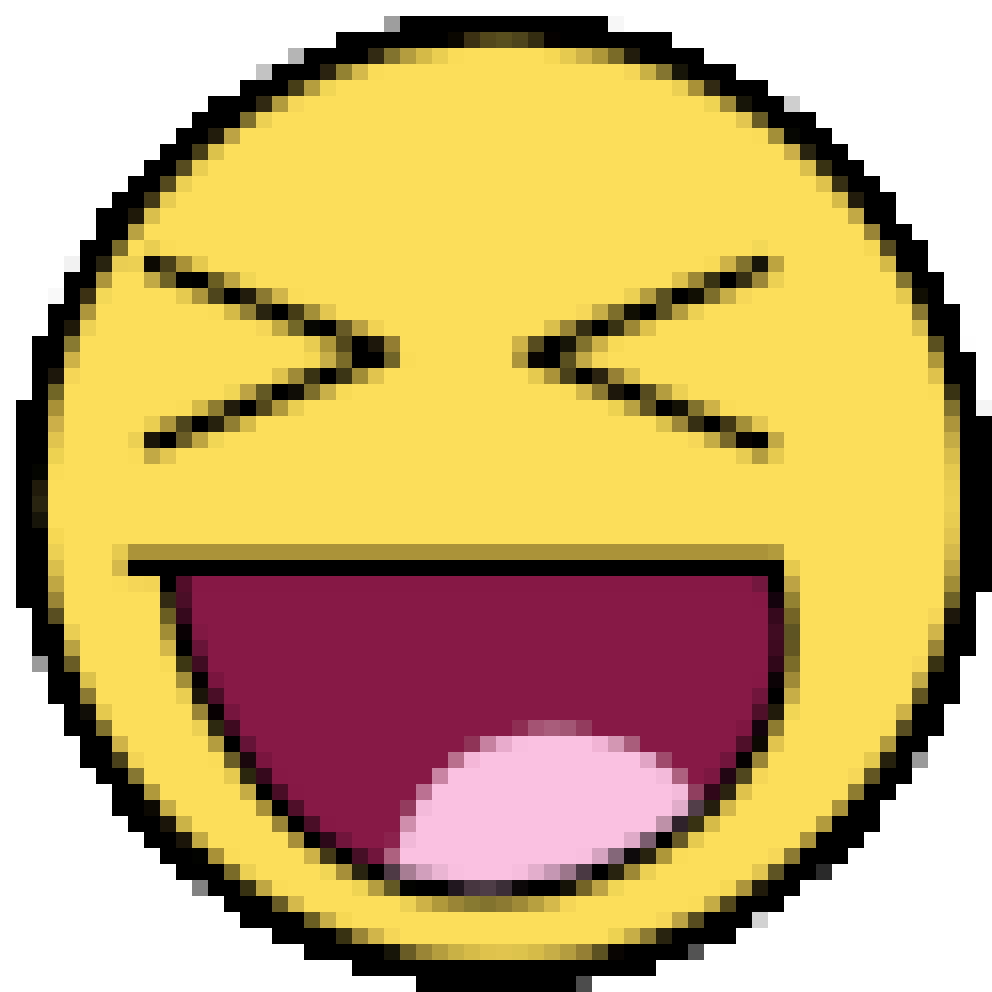
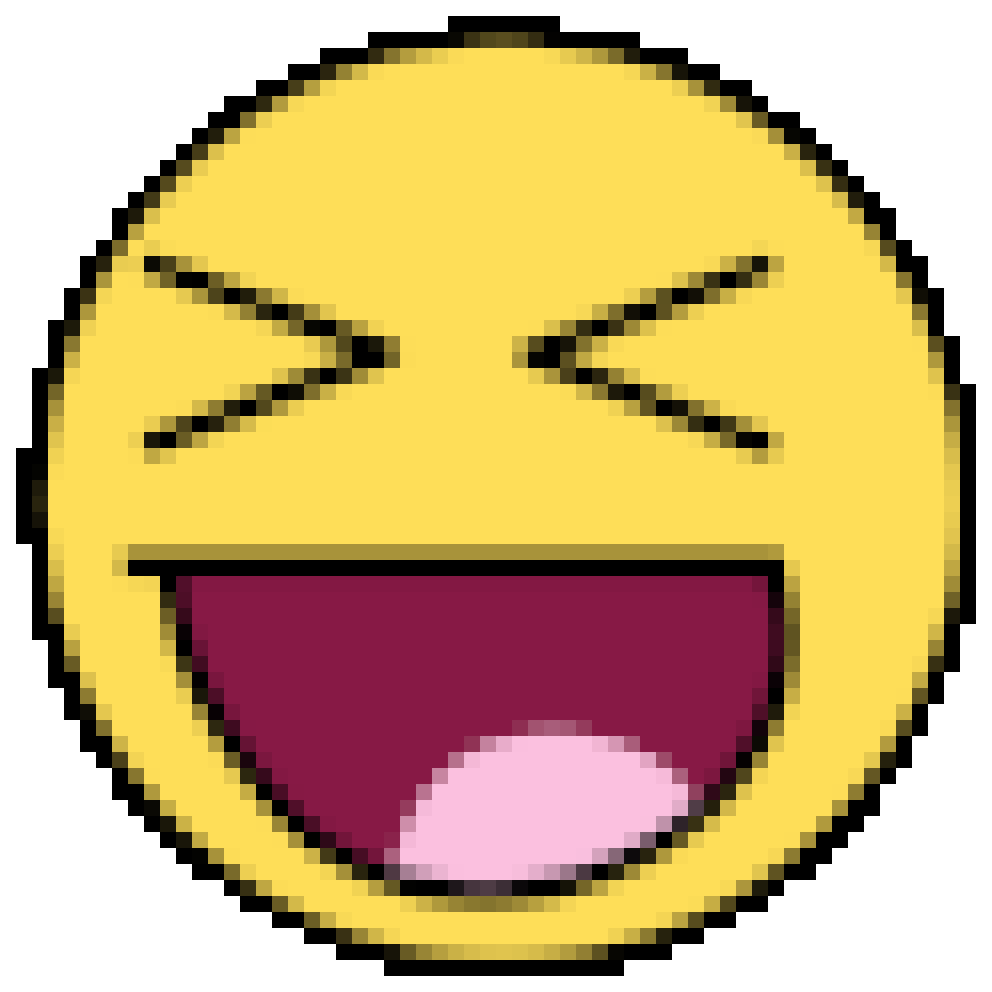
non-transparent pixels

diff --git a/PixelArt.py b/PixelArt.py
@@ -17,6 +17,9 @@ while True:
 def pixelate(img: Image, pixel_size: int) -> None:
     img = img.convert("RGBA")
     width, height = img.size
+
+    if pixel_size < 1 or pixel_size > width or pixel_size > height:
+        raise ValueError("Pixel size must be within native resolution")
     # Cut off rightmost or bottom strip if image is uneven to ensure complete pixels
     width -= width % pixel_size
     height -= height % pixel_size
@@ -48,24 +51,28 @@ def pixelate(img: Image, pixel_size: int) -> None:
                 red_avg = round(math.sqrt(red_sq / alpha_sum))
                 green_avg = round(math.sqrt(green_sq / alpha_sum))
                 blue_avg = round(math.sqrt(blue_sq / alpha_sum))
-                alpha_avg = round(alpha_sum / (pixel_size**2))
+                # Pixels are either there or not
+                if alpha_sum / (pixel_size**2) >= 128:
+                    alpha_avg = 255
+                else:
+                    alpha_avg = 0
                 new_px = (red_avg, green_avg, blue_avg, alpha_avg)
 
             for cx in range(x, x + pixel_size):
                 for cy in range(y, y + pixel_size):
                     pixels[cx, cy] = new_px
 
-            if len(file_name.split(".")) == 2:
-                file, ext = file_name.split(".")
-            else:
-                i = len(file_name) - 1
-                while file_name[i] != ".":
-                    i -= 1
-                file, ext = file_name[:i], file_name[i+1:]
-            
-            new_filename = f"{file}-pixelated.{ext}"
+    if len(file_name.split(".")) == 2:
+        file, ext = file_name.split(".")
+    else:
+        i = len(file_name) - 1
+        while file_name[i] != ".":
+            i -= 1
+        file, ext = file_name[:i], file_name[i+1:]
+    
+    new_filename = f"{file}-pixelated.{ext}"
 
-            img_copy.save(new_filename)
+    img_copy.save(new_filename)
 
 with Image.open(path_to_image) as img:
     pixelate(img, size_of_pixel)

diff --git a/README.md b/README.md
@@ -1,6 +1,6 @@
 # image-pixel-converter
 
-Command line image to pixel art converter, provide a path to an image and choose your resolution
+Command line image to pixel art converter, provide a path to an image and choose your pixel size (keeps resolution for image quality)
 
 ## Install
 
